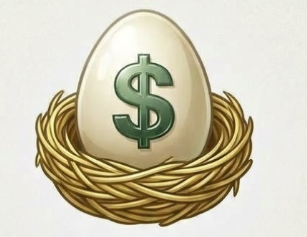
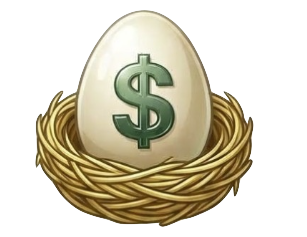
fix(auth): release previous sign-in identifiers for reuse

diff --git a/backend/src/main/kotlin/ledgernest/repositories/UserRepository.kt b/backend/src/main/kotlin/ledgernest/repositories/UserRepository.kt
@@ -65,6 +65,20 @@ class UserRepository(private val transactions: TransactionOperations<Connection>
             statement.setObject(3, id)
             check(statement.executeUpdate() == 1)
         }
+        // History does not reserve identifiers or grant access to an account.
+        status.connection.prepareStatement("INSERT INTO ln_identifier_change_history(id,user_id,old_username,new_username) VALUES (?,?,?,?)").use { statement ->
+            statement.setObject(1, UUID.randomUUID())
+            statement.setObject(2, id)
+            statement.setString(3, current)
+            statement.setString(4, username)
+            check(statement.executeUpdate() == 1)
+        }
+        // Release only after updating ln_user, so its foreign key remains valid.
+        // All three writes share the transaction: a failure rolls everything back.
+        status.connection.prepareStatement("DELETE FROM ln_identifier_registry WHERE username=?").use { statement ->
+            statement.setString(1, current)
+            check(statement.executeUpdate() == 1)
+        }
         true
     })
 }
